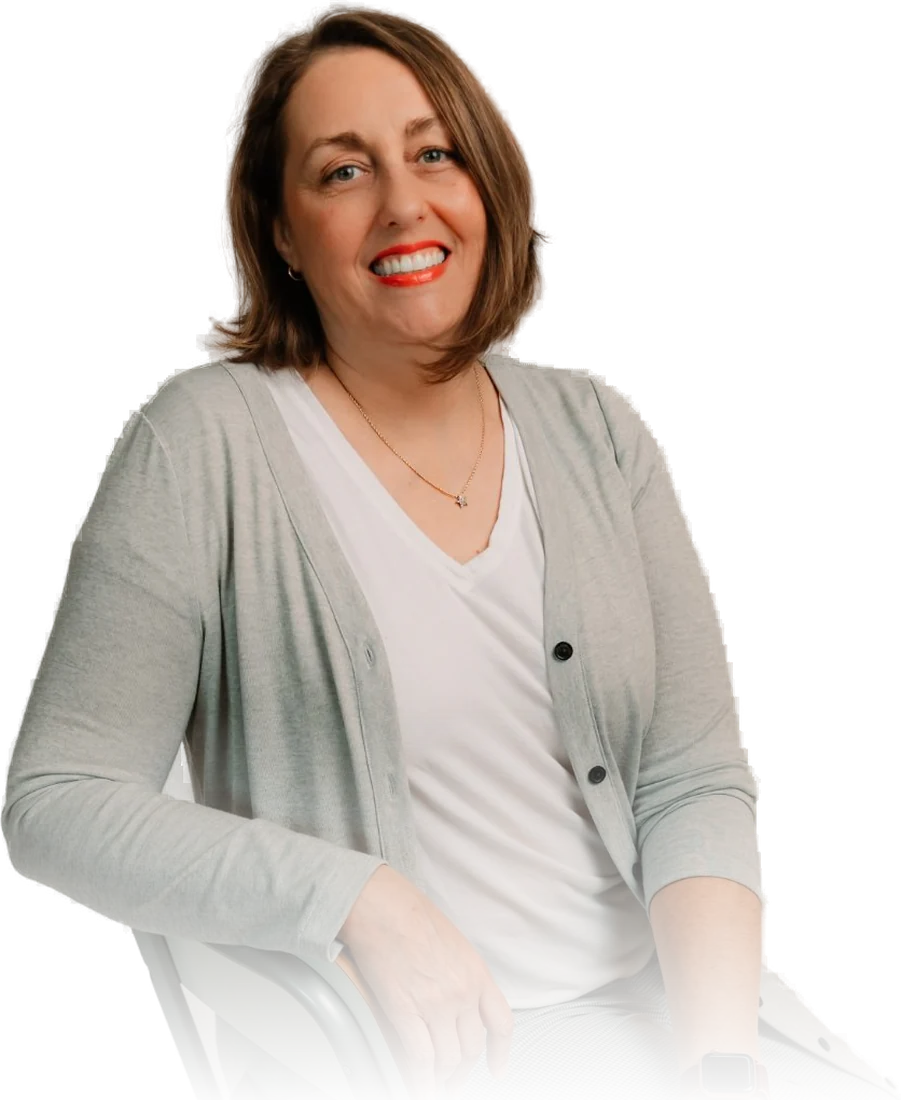
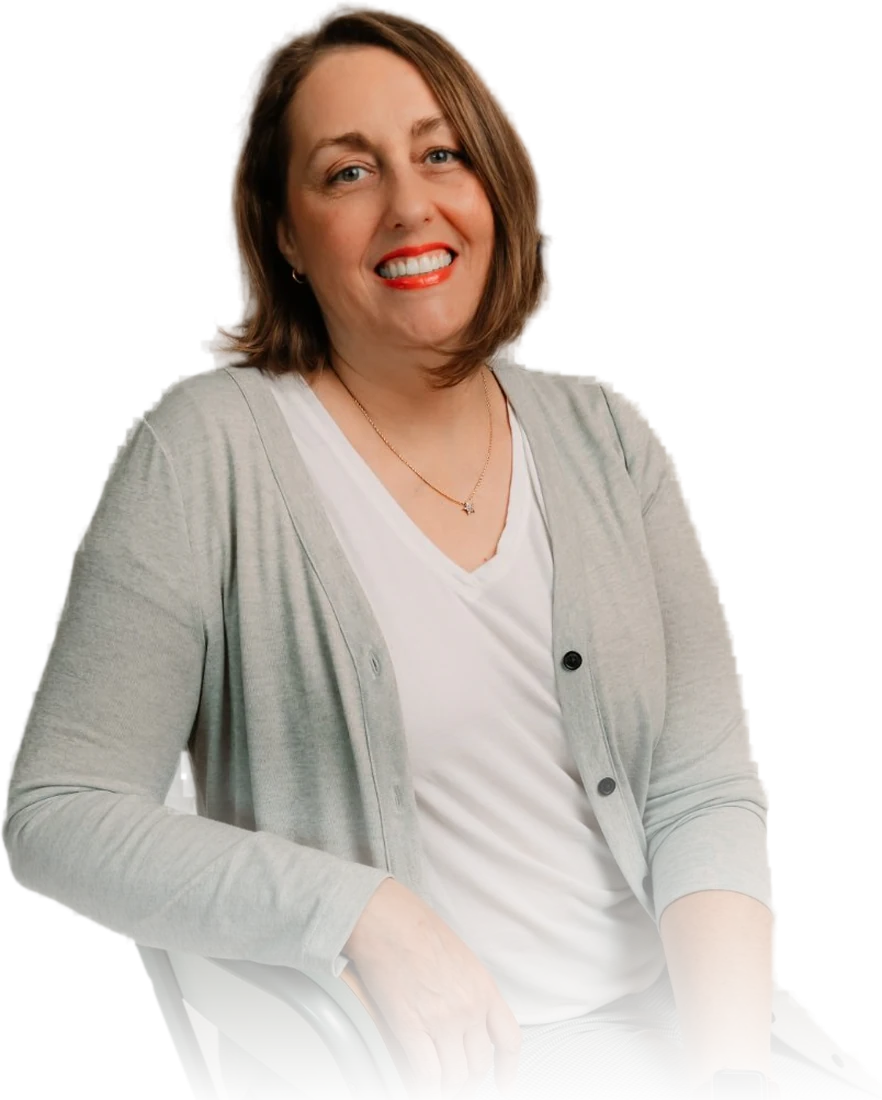
style(about): cutout hero design pass
- figure enlarged to ~560px and raised so the head sits beside the headline
- bronze glow repositioned behind the figure
- cutout defringed; three-quarter crop with a diagonal fade that hides the chair
- phones: figure first, then the words, fade runs into the overline

Claude-Session: https://claude.ai/code/session_018E4D7qz7mZj6sdSTFqpjrZ

diff --git a/sandbox/meet-dr-j.html b/sandbox/meet-dr-j.html
@@ -434,15 +434,20 @@ h3{
 @media (max-width:640px){.brand svg{height:17px}.footer .brand svg{height:44px}}
 
 /* ---------- Meet: cutout hero ---------- */
-.hero{padding-bottom:0}
-.hero-grid{grid-template-columns:1fr 440px;align-items:end;gap:48px}
-.hero-grid>div:first-child{padding-bottom:112px}
-.cutout{margin:0;justify-self:end;width:100%;max-width:440px;line-height:0}
-.cutout img{display:block;width:100%;height:auto;filter:drop-shadow(0 30px 40px rgba(0,0,0,0.45))}
+.hero{padding:0;min-height:640px}
+.hero::before{right:6%;top:-120px;width:820px;height:820px;background:radial-gradient(circle,rgba(191,135,86,0.30) 0%,rgba(191,135,86,0.10) 42%,transparent 66%)}
+.hero-grid{grid-template-columns:minmax(0,1fr) minmax(380px,560px);align-items:end;gap:24px}
+.hero-grid>div:first-child{align-self:center;padding:120px 0 100px}
+.cutout{margin:0;justify-self:end;width:100%;max-width:560px;line-height:0;padding-top:16px}
+.cutout img{display:block;width:100%;height:auto;filter:drop-shadow(0 24px 34px rgba(0,0,0,0.42))}
+@media (max-width:1100px){.hero-grid{grid-template-columns:minmax(0,1fr) minmax(320px,440px)}}
 @media (max-width:840px){
-  .hero-grid{grid-template-columns:1fr;align-items:end;gap:8px}
-  .hero-grid>div:first-child{padding-bottom:36px}
-  .cutout{justify-self:center;max-width:300px}
+  .hero{min-height:0}
+  .hero::before{right:-120px;top:-200px;width:620px;height:620px}
+  .hero-grid{grid-template-columns:1fr;gap:0}
+  .cutout{order:-1;justify-self:center;max-width:270px;padding-top:36px;margin-bottom:-10px}
+  .cutout img{filter:drop-shadow(0 16px 24px rgba(0,0,0,0.4))}
+  .hero-grid>div:first-child{padding:0 0 64px;align-self:start}
 }
 </style>
 </head>
@@ -481,7 +486,7 @@ h3{
         <a class="btn btn-gold" href="https://link.syncovatellc.com/widget/booking/29K6RwPvCIc2xOxgUVKo">Let's Talk</a>
       </div>
     </div>
-    <figure class="cutout"><img src="assets/dr-j-chair-cutout.webp" alt="Dr. Shannon Jennings" width="901" height="1100"></figure>
+    <figure class="cutout"><img src="assets/dr-j-chair-cutout.webp" alt="Dr. Shannon Jennings" width="882" height="1100"></figure>
   </div>
 </section>
 
